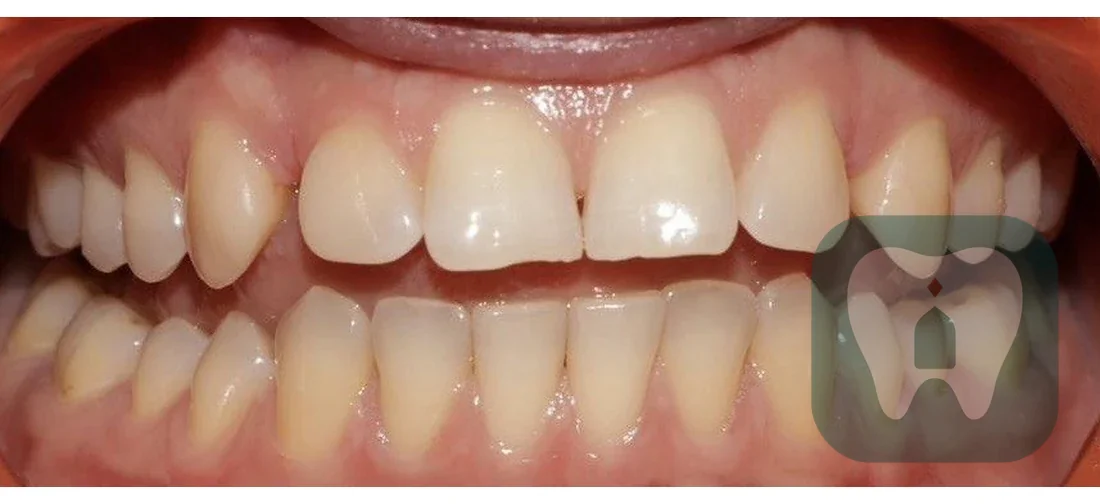
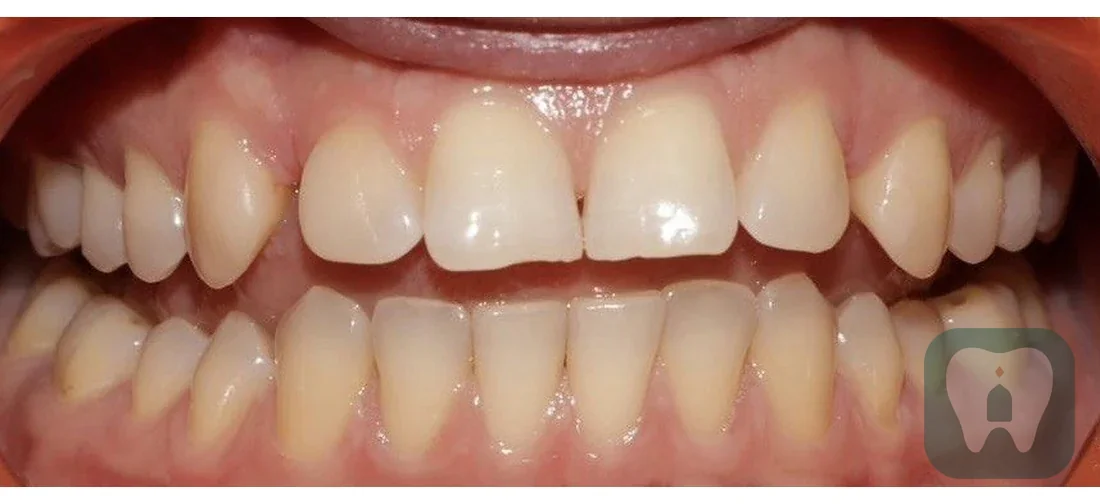
Водяной знак: размер от короткой стороны кадра — фикс огромного знака в лайтбоксе
В лайтбоксе открываются широкие *-full версии (1100x504). Размер знака
считался от ширины, поэтому 24% ширины давали 52% высоты кадра — знак
оставался визуально огромным, хотя формально был уменьшен. Теперь
0.32 короткой стороны: одинаковый вес на любом соотношении сторон.

Claude-Session: https://claude.ai/code/session_013XQ8Akc3UN6p6GWzUw4Por

Changed region(s): [[0.7109, 0.4167, 0.9891, 0.9524]]

diff --git a/scripts/apply-watermark.py b/scripts/apply-watermark.py
@@ -26,10 +26,16 @@ WM_PATH = ROOT / "assets" / "img" / "watermark.png"
 
 # Знак Венеции — плотная плашка-логотип (в отличие от лёгкой линейной
 # графики Angel/Versal), поэтому он меньше и прозрачнее: при 32%/78%
-# перетягивал внимание с клинического фото. Ниже 20%/45% зуб перестаёт
-# читаться и знак превращается в мутный квадрат — не опускать.
-WM_WIDTH_RATIO = 0.24  # watermark width as fraction of image width
-WM_MARGIN_RATIO = 0.03
+# перетягивал внимание с клинического фото. Ниже 0.26 короткой стороны
+# зуб перестаёт читаться и знак превращается в мутный квадрат — не опускать.
+#
+# ⚠ Размер считаем от КОРОТКОЙ стороны кадра, а не от ширины. Знак
+# квадратный, и при расчёте от ширины на широких снимках (`*-full`,
+# например 1100×504) он занимал больше половины высоты кадра и выглядел
+# огромным, хотя формально это были «те же 24%». От короткой стороны
+# знак весит одинаково на любом соотношении сторон.
+WM_SIZE_RATIO = 0.32    # сторона знака как доля от короткой стороны кадра
+WM_MARGIN_RATIO = 0.04  # отступ — тоже от короткой стороны
 WM_OPACITY = 0.62
 # Под знаком мягкий тёмный halo, чтобы он оставался читаемым
 # и на белом, и на тёмном фоне.
@@ -40,7 +46,9 @@ SHADOW_BLUR_RATIO = 0.014  # радиус блюра как доля от шир
 def watermark_image(src: Path, out: Path, wm: Image.Image) -> None:
     img = Image.open(src).convert("RGBA")
 
-    target_w = int(img.width * WM_WIDTH_RATIO)
+    short_side = min(img.width, img.height)
+
+    target_w = int(short_side * WM_SIZE_RATIO)
     scale = target_w / wm.width
     target_h = int(wm.height * scale)
     wm_scaled = wm.resize((target_w, target_h), Image.LANCZOS)
@@ -48,7 +56,7 @@ def watermark_image(src: Path, out: Path, wm: Image.Image) -> None:
     alpha = wm_scaled.split()[3].point(lambda p: int(p * WM_OPACITY))
     wm_scaled.putalpha(alpha)
 
-    margin = int(img.width * WM_MARGIN_RATIO)
+    margin = int(short_side * WM_MARGIN_RATIO)
     pos = (img.width - target_w - margin, img.height - target_h - margin)
 
     blur_radius = max(2, int(target_w * SHADOW_BLUR_RATIO))

diff --git a/CLAUDE.md b/CLAUDE.md
@@ -118,10 +118,15 @@ contacts.
 `python3 scripts/apply-watermark.py <имя>.webp`.
 
 ⚠ **Водяной знак Венеции слабее, чем у Angel/Versal** (решение владельца,
-28.07.2026): **24% ширины, прозрачность 0.62**, halo 0.38 — против 32%/0.78
-у тех сайтов. Причина: знак Венеции — плотная плашка-логотип, а не лёгкая
-линейная графика, и на клиническом фото перетягивал внимание. Ниже
-20%/0.45 зуб перестаёт читаться — не опускать. Параметры — в шапке
+28.07.2026): **0.32 короткой стороны кадра, прозрачность 0.62**, halo 0.38 —
+против 0.4286/0.78 у тех сайтов. Причина: знак Венеции — плотная
+плашка-логотип, а не лёгкая линейная графика, и на клиническом фото
+перетягивал внимание. Ниже 0.26 зуб перестаёт читаться — не опускать.
+
+⚠ Размер считается от **короткой стороны**, а не от ширины. Знак
+квадратный: при расчёте от ширины на широких снимках (`*-full`, например
+1100×504) он занимал больше половины высоты кадра и в лайтбоксе выглядел
+огромным, хотя формально это были «те же 24%». Параметры — в шапке
 `scripts/apply-watermark.py`; меняешь их → перегенерировать ВСЕ фото
 (запуск скрипта без аргументов, он идемпотентен — читает из `_originals/`).
 
